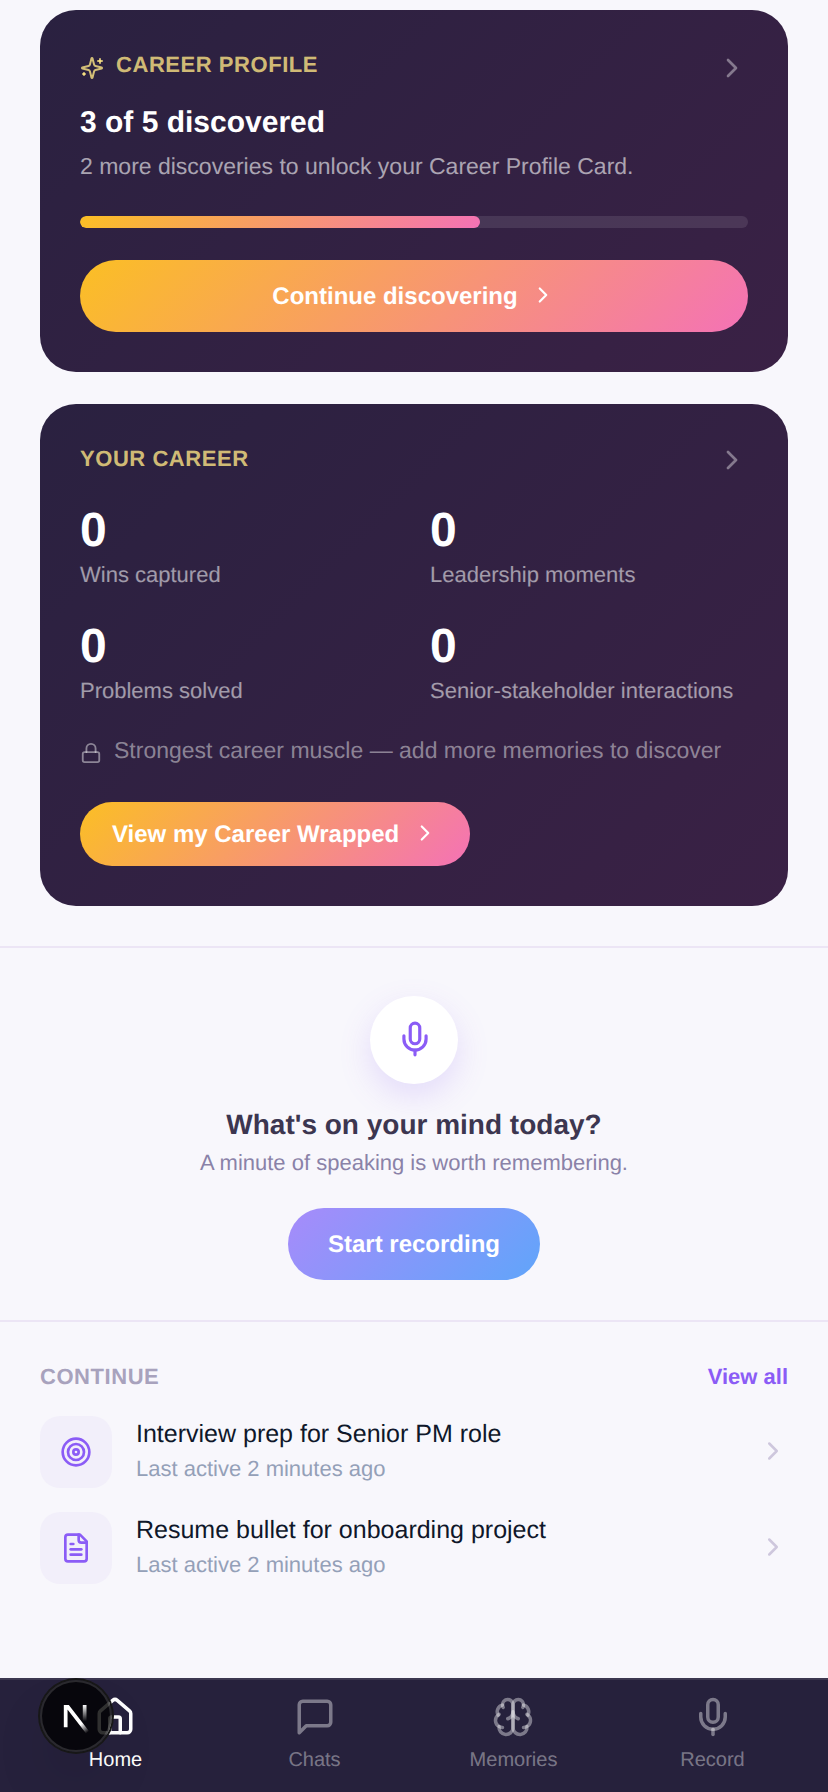
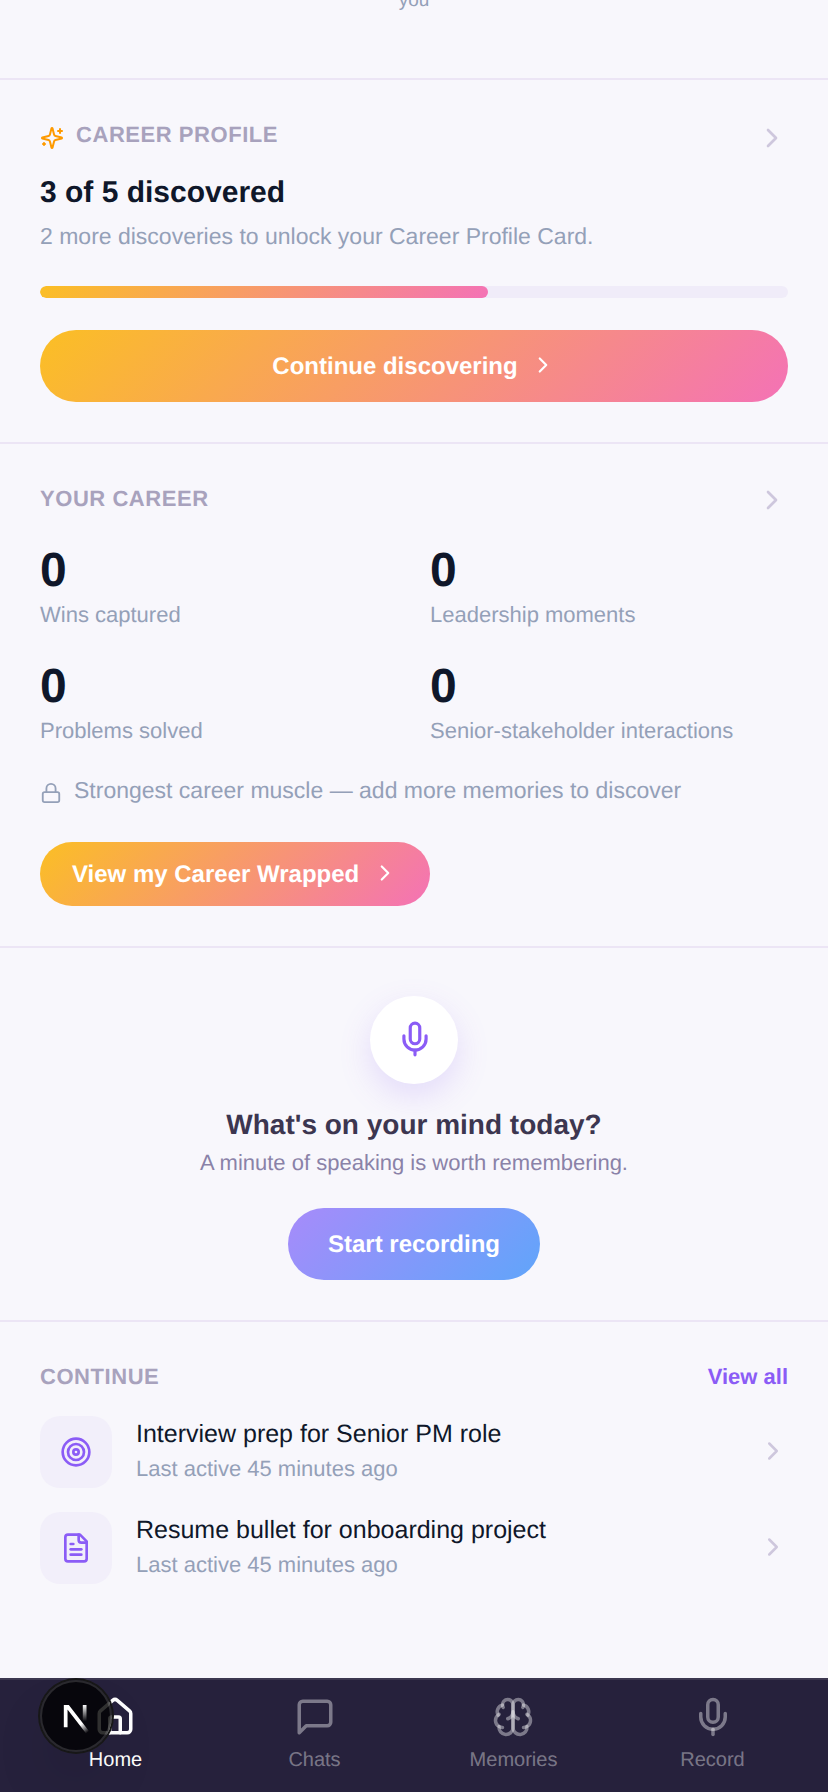
a

diff --git a/src/components/CareerWrappedHomePreview.tsx b/src/components/CareerWrappedHomePreview.tsx
@@ -16,12 +16,17 @@ export type CareerWrappedHomePreviewData = {
 };
 
 // The "very first thing" the spec asks for, right after Home's header --
-// deliberately a bigger, richer card than the recap/growth/benchmark teaser
-// rows below it (see HomeClient.tsx) rather than one more entry in that
-// list, so it reads as a core part of the product rather than another
-// digest. Its own warm amber/pink "Wrapped" gradient keeps it visually
-// distinct from every other accent color already in use on Home (indigo =
-// recap, violet = growth, emerald = benchmark, rose = check-in).
+// deliberately richer (a stat grid, not just an icon+title+subtitle row)
+// than the recap/growth/benchmark teaser rows below it (see HomeClient.tsx)
+// so it reads as a core part of the product rather than another digest.
+// Free-flowing on the light body like every other Home section, though --
+// an earlier version wrapped this in a dark rounded panel, which (paired
+// with CareerProfileHomeHero's matching dark panel above it) read as two
+// floating boxes sitting on an otherwise all-white page. Its own warm
+// amber/pink "Wrapped" gradient still marks the stat bar / CTA button as
+// this feature's accent color (same convention as every other Home teaser
+// -- indigo = recap, violet = growth, emerald = benchmark, rose = check-in
+// -- see TEASER_ACCENTS), just not as a container background anymore.
 export function CareerWrappedHomePreview({ data }: { data: CareerWrappedHomePreviewData }) {
   const router = useRouter();
 
@@ -42,31 +47,27 @@ export function CareerWrappedHomePreview({ data }: { data: CareerWrappedHomePrev
 
   if (data.tier === "empty") {
     return (
-      <div className="px-5 pt-4">
+      <div className="border-t border-[#ece5f5] mt-5 px-5 pt-6 text-center">
         <div
-          className="rounded-[18px] p-5 text-center"
-          style={{ background: "linear-gradient(135deg,#2a2140,#3a2145)" }}
+          className="mx-auto mb-2.5 flex h-11 w-11 items-center justify-center rounded-full bg-surface text-amber-500"
+          style={{ boxShadow: "0 6px 16px rgba(251,191,36,0.18)" }}
         >
-          <div
-            className="mx-auto mb-2.5 flex h-11 w-11 items-center justify-center rounded-full bg-white/10 text-amber-200"
-          >
-            <Sparkles size={19} />
-          </div>
-          <p className="text-sm font-semibold text-white">Your Career Wrapped is taking shape.</p>
-          <p className="mx-auto mt-1 max-w-[260px] text-[11.5px] text-white/60">
-            Add a few career memories and Strivo.ai will start discovering patterns in your career.
-          </p>
-          <button
-            onClick={() => {
-              trackEvent("career_wrapped_add_memory_clicked", { source: "home_preview_empty" });
-              router.push("/record");
-            }}
-            className="mt-3.5 rounded-pill px-5 py-2.5 text-xs font-semibold text-white"
-            style={{ background: "linear-gradient(135deg,#fbbf24,#f472b6)" }}
-          >
-            Record a memory
-          </button>
+          <Sparkles size={19} />
         </div>
+        <p className="text-sm font-semibold text-[#3c3650]">Your Career Wrapped is taking shape.</p>
+        <p className="mx-auto mt-1 max-w-[260px] text-[11.5px] text-ink-faint">
+          Add a few career memories and Strivo.ai will start discovering patterns in your career.
+        </p>
+        <button
+          onClick={() => {
+            trackEvent("career_wrapped_add_memory_clicked", { source: "home_preview_empty" });
+            router.push("/record");
+          }}
+          className="mt-3.5 rounded-pill px-5 py-2.5 text-xs font-semibold text-white"
+          style={{ background: "linear-gradient(135deg,#fbbf24,#f472b6)" }}
+        >
+          Record a memory
+        </button>
       </div>
     );
   }
@@ -74,17 +75,11 @@ export function CareerWrappedHomePreview({ data }: { data: CareerWrappedHomePrev
   const showLockedMuscle = data.tier === "basic" || data.tier === "patterns";
 
   return (
-    <div className="px-5 pt-4">
-      <button
-        onClick={openCareerWrapped}
-        className="w-full rounded-[18px] p-5 text-left"
-        style={{ background: "linear-gradient(135deg,#2a2140,#3a2145)" }}
-      >
+    <div className="border-t border-[#ece5f5] mt-5 px-5 pt-5">
+      <button onClick={openCareerWrapped} className="w-full text-left">
         <div className="flex items-center justify-between">
-          <p className="text-[11px] font-semibold uppercase tracking-wide text-amber-200/80">
-            Your Career
-          </p>
-          <ChevronRight size={16} className="shrink-0 text-white/40" />
+          <p className="text-[11px] font-semibold uppercase tracking-wide text-[#a8a2bd]">Your Career</p>
+          <ChevronRight size={16} className="shrink-0 text-[#cec7dd]" />
         </div>
 
         <div className="mt-3 grid grid-cols-2 gap-x-4 gap-y-3">
@@ -95,12 +90,12 @@ export function CareerWrappedHomePreview({ data }: { data: CareerWrappedHomePrev
         </div>
 
         {data.tier === "full" && data.strongestMuscle && (
-          <p className="mt-3.5 text-[11.5px] text-white/60">
-            Strongest career muscle: <span className="font-semibold text-white/90">{data.strongestMuscle}</span>
+          <p className="mt-3.5 text-[11.5px] text-ink-faint">
+            Strongest career muscle: <span className="font-semibold text-ink">{data.strongestMuscle}</span>
           </p>
         )}
         {showLockedMuscle && (
-          <p className="mt-3.5 flex items-center gap-1.5 text-[11.5px] text-white/45">
+          <p className="mt-3.5 flex items-center gap-1.5 text-[11.5px] text-ink-faint">
             <Lock size={11} /> Strongest career muscle — add more memories to discover
           </p>
         )}
@@ -119,8 +114,8 @@ export function CareerWrappedHomePreview({ data }: { data: CareerWrappedHomePrev
 function Stat({ value, label }: { value: number; label: string }) {
   return (
     <div>
-      <p className="text-2xl font-bold text-white">{value}</p>
-      <p className="text-[11px] leading-tight text-white/55">{label}</p>
+      <p className="text-2xl font-bold text-ink">{value}</p>
+      <p className="text-[11px] leading-tight text-ink-faint">{label}</p>
     </div>
   );
 }

diff --git a/src/components/CareerProfileHomeHero.tsx b/src/components/CareerProfileHomeHero.tsx
@@ -9,9 +9,15 @@ import type { CareerProfileProgress } from "@/lib/repo/careerProfile";
 // The Career Profile "front door" on Home -- deliberately placed ahead of
 // CareerWrappedHomePreview (see HomeClient.tsx) so a brand-new, zero-data
 // user sees something fun and immediately personal before anything that
-// depends on real memory evidence. Same card-shape convention as
-// CareerWrappedHomePreview.tsx (px-5 wrapper, rounded-[18px] dark panel) so
-// the two read as siblings.
+// depends on real memory evidence. Free-flowing on the light body, same
+// border-t-hairline-plus-spacing convention as every other Home section
+// (see HomeClient.tsx's own comment on DARK) -- an earlier version wrapped
+// this in a dark rounded panel, which read as a floating card sitting on
+// top of an otherwise all-white page ("two parts in between that are
+// blue"). The amber/pink gradient stays on the progress bar and CTA
+// button only -- that's this feature's own accent color, same convention
+// every other Home teaser already uses (see TEASER_ACCENTS), not a
+// container background.
 //
 // DELIBERATELY CONDENSED (product feedback): this used to list all 5 quiz
 // rows inline, which made Home feel long. Home's job now is just to say
@@ -55,33 +61,31 @@ export function CareerProfileHomeHero({ progress }: { progress: CareerProfilePro
   const ctaLabel = isZero ? "Start discovering" : progress.isComplete ? "Reveal my Career Card" : "Continue discovering";
 
   return (
-    <div className="px-5 pt-4">
-      <div className="w-full rounded-[18px] p-5" style={{ background: "linear-gradient(135deg,#2a2140,#3a2145)" }}>
-        <button onClick={() => router.push("/career-profile")} className="flex w-full items-center justify-between text-left">
-          <p className="flex items-center gap-1.5 text-[11px] font-semibold uppercase tracking-wide text-amber-200/80">
-            <Sparkles size={12} /> Career Profile
-          </p>
-          <ChevronRight size={16} className="shrink-0 text-white/40" />
-        </button>
+    <div className="border-t border-[#ece5f5] mt-5 px-5 pt-5">
+      <button onClick={() => router.push("/career-profile")} className="flex w-full items-center justify-between text-left">
+        <p className="flex items-center gap-1.5 text-[11px] font-semibold uppercase tracking-wide text-[#a8a2bd]">
+          <Sparkles size={12} className="text-amber-500" /> Career Profile
+        </p>
+        <ChevronRight size={16} className="shrink-0 text-[#cec7dd]" />
+      </button>
 
-        <p className="mt-2.5 text-[15px] font-bold leading-snug text-white">{headline}</p>
-        <p className="mt-1 text-[11.5px] text-white/60">{subtitle}</p>
+      <p className="mt-2.5 text-[15px] font-bold leading-snug text-ink">{headline}</p>
+      <p className="mt-1 text-[11.5px] text-ink-faint">{subtitle}</p>
 
-        <div className="mt-3.5 h-1.5 w-full overflow-hidden rounded-full bg-white/10">
-          <div
-            className="h-full rounded-full"
-            style={{ width: `${(progress.completedCount / progress.totalCount) * 100}%`, background: "linear-gradient(135deg,#fbbf24,#f472b6)" }}
-          />
-        </div>
-
-        <button
-          onClick={handleCta}
-          className="mt-4 flex w-full items-center justify-center gap-1.5 rounded-pill py-2.5 text-xs font-semibold text-white"
-          style={{ background: "linear-gradient(135deg,#fbbf24,#f472b6)" }}
-        >
-          {ctaLabel} <ChevronRight size={13} />
-        </button>
+      <div className="mt-3.5 h-1.5 w-full overflow-hidden rounded-full bg-[#f0ecf9]">
+        <div
+          className="h-full rounded-full"
+          style={{ width: `${(progress.completedCount / progress.totalCount) * 100}%`, background: "linear-gradient(135deg,#fbbf24,#f472b6)" }}
+        />
       </div>
+
+      <button
+        onClick={handleCta}
+        className="mt-4 flex w-full items-center justify-center gap-1.5 rounded-pill py-2.5 text-xs font-semibold text-white"
+        style={{ background: "linear-gradient(135deg,#fbbf24,#f472b6)" }}
+      >
+        {ctaLabel} <ChevronRight size={13} />
+      </button>
     </div>
   );
 }
